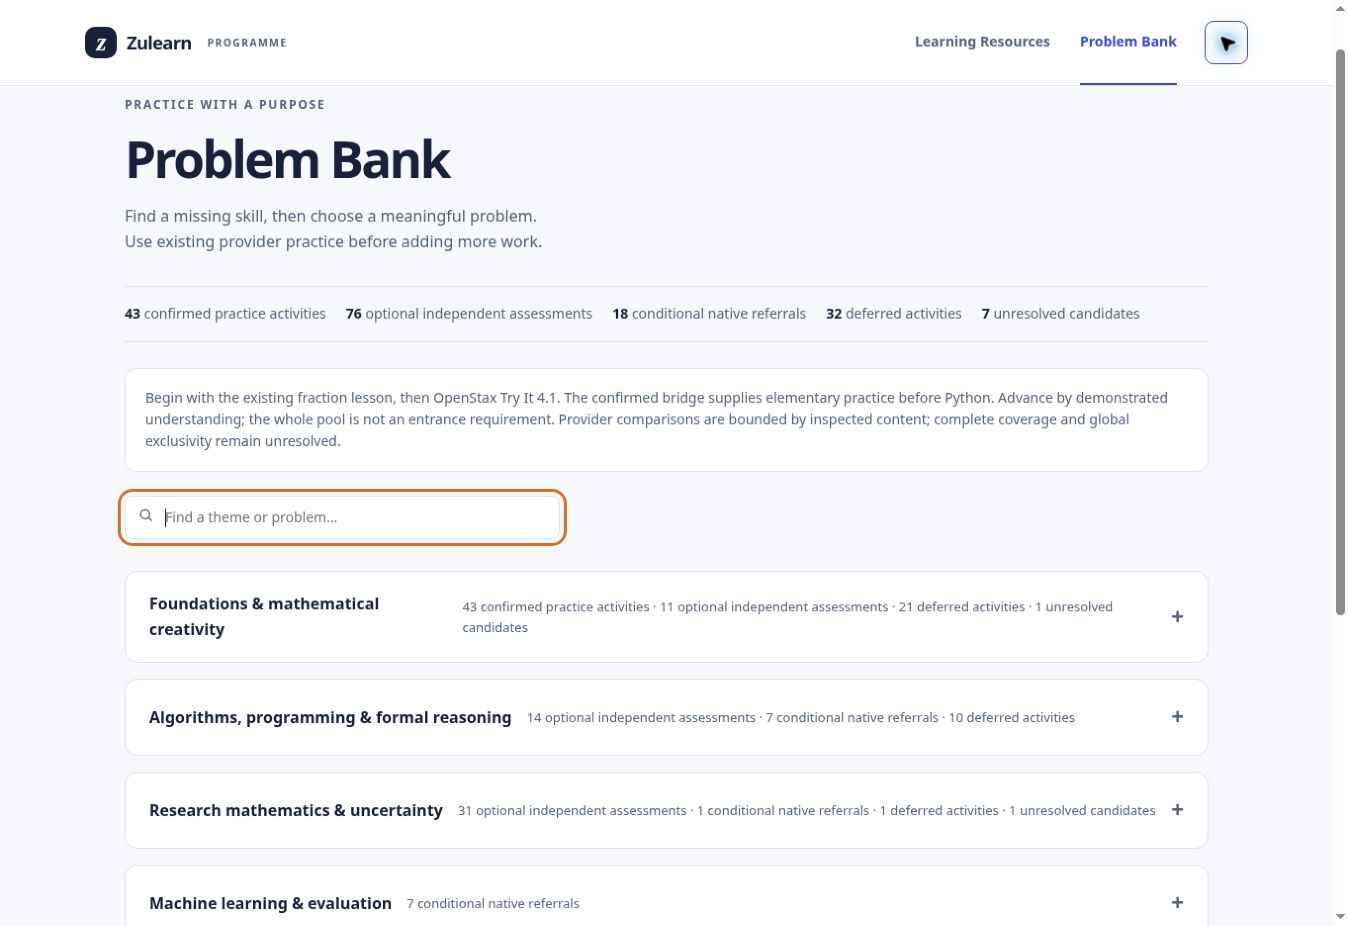
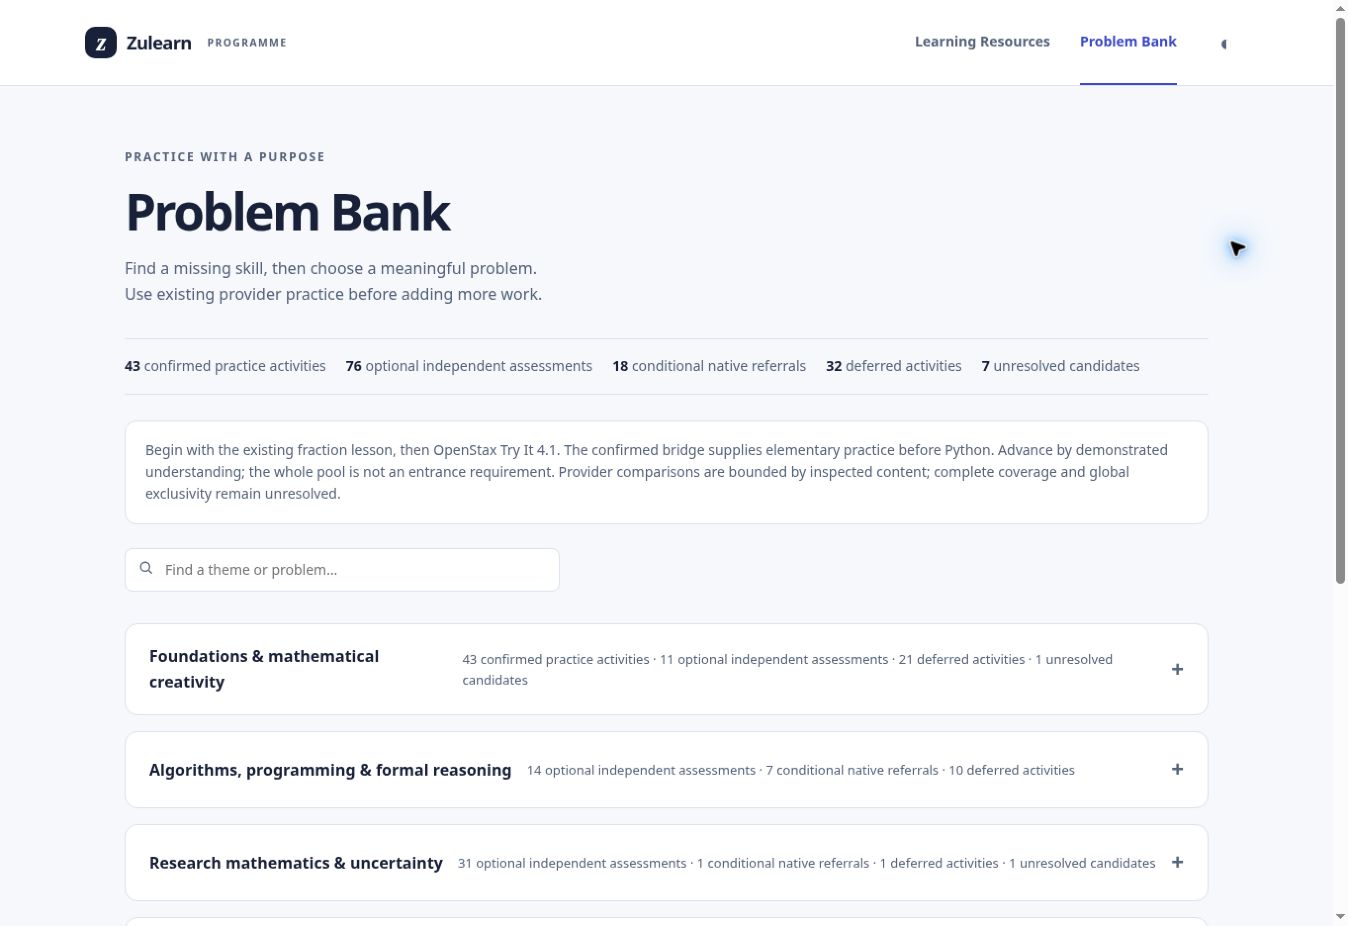
Record approved narrow acceptance and deployed content hashes

diff --git a/research/curation/2026-11-28/scientific-curation-report.md b/research/curation/2026-11-28/scientific-curation-report.md
@@ -81,7 +81,7 @@ Three provenance corrections matter: the historical 2023 Putnam problems-only PD
 
 This was a structured adversarial self-review with independently reconstructed calculations, not a second external scientific reviewer. Future theorem, empirical and frontier-competence claims still require their actual proof/experiment and appropriate criticism.
 
-## Implementation, acceptance and remaining block
+## Implementation, acceptance and measured limits
 
 The existing buildless architecture, two navigation pages, three groups, 8/6/4 parent categories, fourteen Deep-Path part checkboxes, all historical canonical identities and actual learner progress remain preserved. Layout markup and CSS bytes did not change; the two existing script references gained explicit static cache keys after live tabs retained the earlier script. The renderer/model now validate and display all five dispositions from data; non-native entries are no longer automatically called pending. One scientifically bounded foundational branch is activated. No individual-problem checkbox, framework, database or new application runtime was introduced.
 
@@ -89,7 +89,9 @@ The actual production suite passed **222 assertions**; the provenance/schema/exa
 
 The live scoped Chromium review passed desktop light/dark rendering, actual status counts, original-source/solution disclosure, exact fraction grading, fourteen Deep-Path controls, isolated foundational staging, review/discard and unchanged committed 0/41 progress. The bank measured 1348 CSS pixels with no horizontal overflow. A review-found source-discovery issue is corrected by searching IDs/URLs/locators as well as titles, and confirmed display order starts at the documented first activity.
 
-**Current 320/390-pixel acceptance is not claimed.** Browser provisioning was unavailable and the scoped browser API had no resize control. Automatic approval review rejected full-desktop capture and native-window controls because unrelated private tabs could be exposed and a blocked browser route must not be bypassed. A decision on a Zulearn-only temporary resize was requested; elapsed time is not approval. Earlier narrow screenshots are historical evidence for the approved design, not acceptance of this new content. The outstanding check is explicit in `qa/browser-acceptance.json`.
+After explicit owner approval, an isolated Zulearn window was used for narrow acceptance. Native geometry stayed fixed and organization policy disabled DevTools; neither restriction was bypassed. Ordinary browser zoom exercised actual CSS viewport widths of **337px, 269px and 449px**, all without horizontal overflow. Navigation, source/solution disclosures, resource search and isolated foundational staging/review/discard passed. The checked solution showed (a) 3/8 and (b) 4/9. The test proposal was discarded, zoom restored to 100%, light theme restored and the isolated window closed. Original captures and measured viewport heights are in `qa/browser-acceptance.json`.
+
+**Exact 320/390-pixel viewports and physical mobile devices are not claimed.** The current result is acceptance for the observed desktop Chromium CSS viewports. Versioned-script deployment also passed live MathNet source discovery and the confirmed first-problem order. `deployment-receipt.json` records successful Pages workflow and full deployed-asset byte comparisons for its named content commit.
 
 ## Actual repository artifacts
 
@@ -106,6 +108,7 @@ All paths below are relative to this directory:
 - `baseline-manifest.json` — initial repository inventory/hash receipt.
 - `verify_science.py`, `verification-receipt.json`, `production-test-receipt.json` — actual validation and its limits.
 - `implementation-handoff.md` — ownership, maintenance and progress-scope constraints.
-- `qa/browser-acceptance.json`, `qa/problem-bank-desktop.jpg` — scoped live review and unverified narrow-screen boundary.
+- `qa/browser-acceptance.json` and four original JPEG captures — scoped desktop/narrow review, methods and limits.
+- `deployment-receipt.json` — named content commit, successful Pages workflow and exact deployed-asset hashes.
 
 Production changes are in `docs/resources.json`, `docs/activities.json`, `docs/complementary-audit.json`, `docs/app.js`, `docs/model.js`, the shared progress loader, and `scripts/test-learning.cjs`. `docs/README.md` records current operating rules. The old generator remains historical and must not overwrite the curation projection.

diff --git a/docs/README.md b/docs/README.md
@@ -124,6 +124,6 @@ python research/curation/2026-11-28/verify_science.py
 
 The historical `simplify-learning.py` generator recreates the earlier pending snapshot; do not rerun it over the current curated content. No replacement build system is introduced. The original nonhierarchy activity fields, frozen sources and real progress remain unchanged. The tests execute the actual production model with actual repository data. They check hierarchy, legacy identities, aliases, scope boundaries, no fabricated completion/mastery, selection, conflicts, authorization, unchanged progress and protected bytes. Current receipt: **222 production assertions and 827 scientific/provenance checks passed; 83 protected source files byte-identical**. The original 30-file curriculum package, 109 competencies, 112 concepts, 14 independent assessment definitions and 1,853 source observations remain intact.
 
-The newly deployed content was inspected in the scoped live Chromium tab at a **1348-CSS-pixel desktop width**, in light and dark mode. The bank had no measured horizontal overflow. Actual interactions checked the five status counts, source/solution disclosure, exact fraction checking, fourteen Deep-Path part controls, a single foundational branch proposal, review and discard, and unchanged committed progress. The current [browser receipt](../research/curation/2026-11-28/qa/browser-acceptance.json) records the exact limits. **Current 320/390-pixel acceptance remains unverified**: automatic approval review blocked the desktop/window route because it could expose unrelated tabs; a Zulearn-only resize decision is pending. Earlier narrow screenshots in `docs/qa` belong to the historical interface test and are not presented as a new-content test. No physical-device or assistive-technology certification is claimed.
+The deployed content passed scoped live Chromium review at **1348 CSS pixels**, in light and dark mode, plus observed narrow CSS widths of **337, 269 and 449 pixels** through standard browser zoom in an owner-approved isolated Zulearn window. No measured horizontal overflow occurred. Interactions checked status counts, source/solution disclosure, exact fraction checking, source identifier search, fourteen Deep-Path controls, a single foundational proposal, review/discard and unchanged committed progress. Zoom and theme were restored and the isolated window closed. The [browser receipt](../research/curation/2026-11-28/qa/browser-acceptance.json) records original screenshots, exact viewport heights and limitations. Native geometry was fixed and organization policy disabled DevTools; exact 320/390px viewports and physical mobile devices were not tested. Earlier screenshots in `docs/qa` remain historical evidence. The only HTML change is explicit static cache keys on the two existing script references; layout markup and CSS remain identical.
 
 Legacy Today/Master Path routes open Learning Resources. Progress/Checklist opens the inline save panel. Old exercises open Problem Bank with their current reviewed disposition; concept/part links open informational contents of the appropriate part. Tutor/Challenges link to preserved GitHub sources without creating extra pages.

diff --git a/research/curation/2026-11-28/README.md b/research/curation/2026-11-28/README.md
@@ -13,3 +13,5 @@ Confirmed complementary practice addresses an explicit demand beyond inspected p
 The coverage matrix uses the full frozen registry; confirmed coverage requires all named demands in a row to be evidenced. Partial coverage proves only stated subskills. Insufficient depth means observed relevant material lacks the specified deeper demand. Unresolved means adequate statement-level evidence is unavailable. None measures learner mastery.
 
 The current delivery and limitations are in [scientific-curation-report.md](scientific-curation-report.md). Read the [provider audit](provider-audit.json), [109-row coverage matrix](provider-coverage-matrix.csv), [119 candidate decisions](candidate-adjudications.json), [confirmed source practice](confirmed-problem-bank.json), [native/source selections](resource-selections.json), [frontier benchmark](frontier-competency-benchmark.md), [source ledger](source-ledger.json) and [implementation handoff](implementation-handoff.md). [Exact checks](verification-receipt.json), [production checks](production-test-receipt.json) and the [browser boundary](qa/browser-acceptance.json) distinguish tested facts from unresolved work.
+
+`deployment-receipt.json` records the successful Pages workflow and complete public-response hash comparisons for its named content commit. `qa/browser-acceptance.json` records the owner-approved scoped narrow tests and their exact viewport/method limits.
